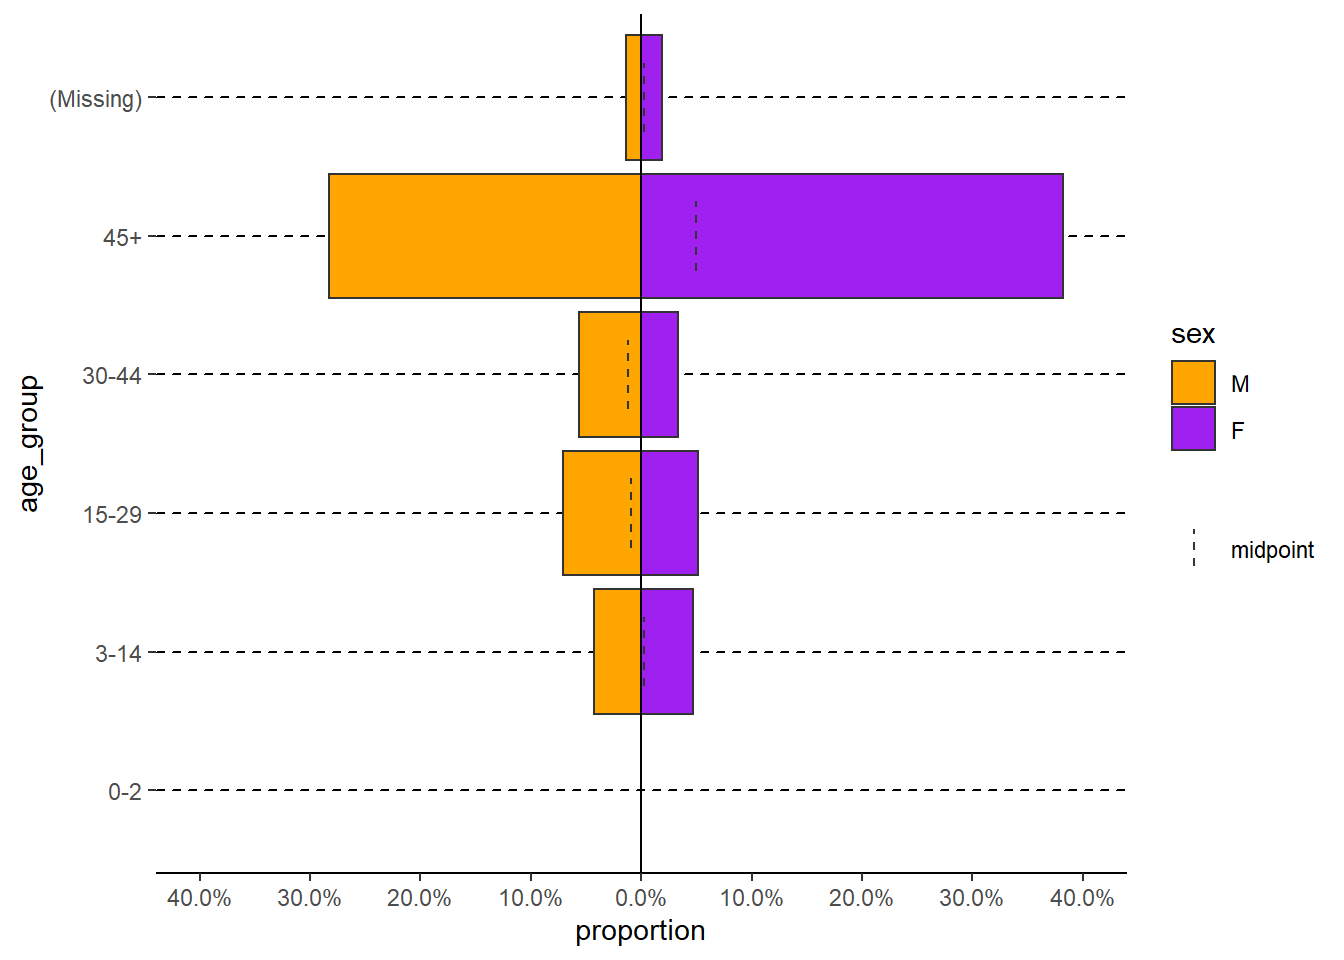
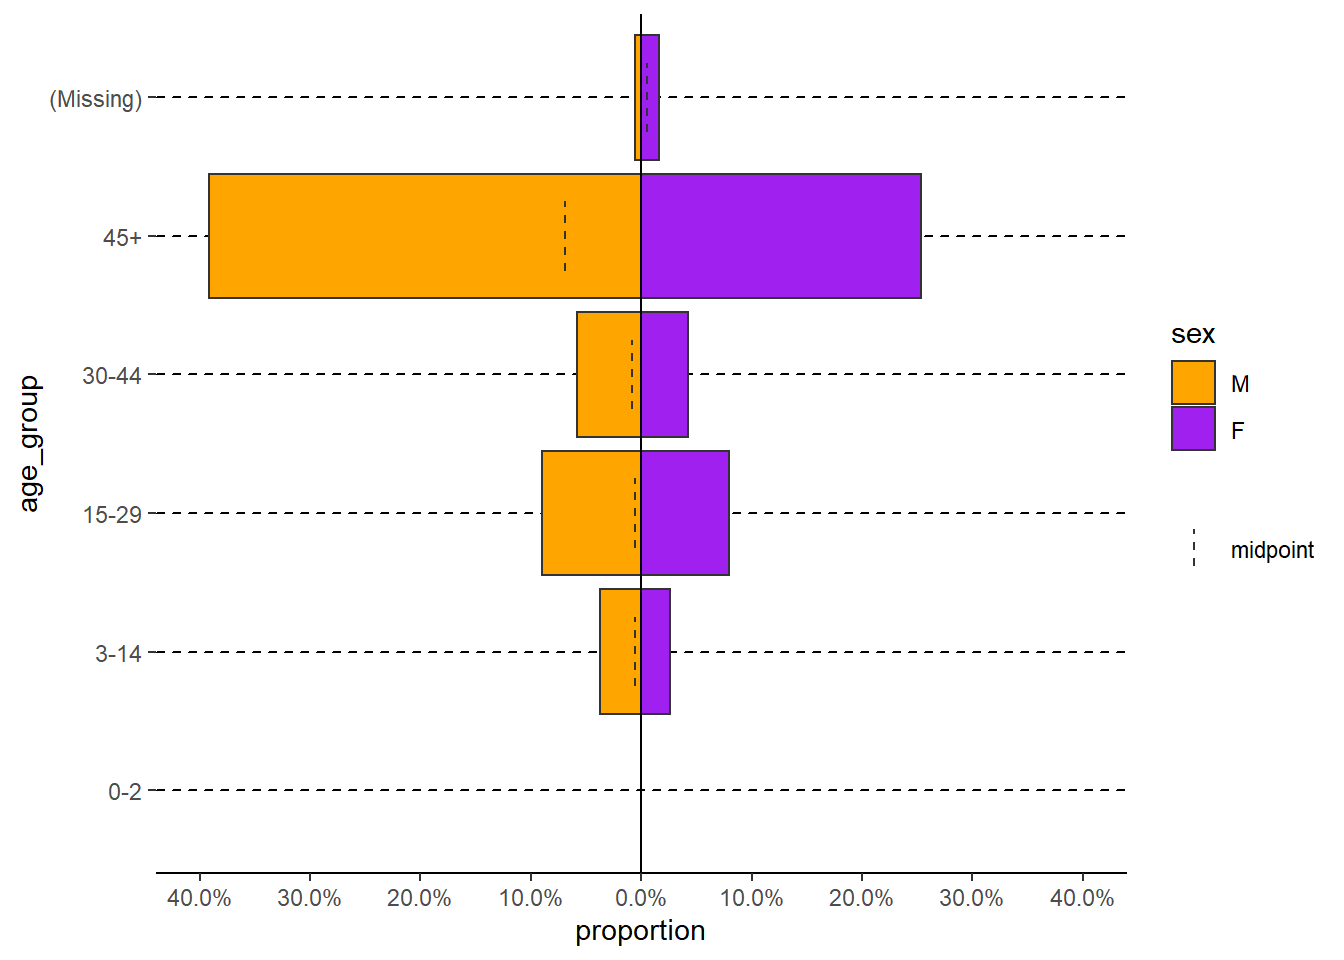
Finished transition of descriptive example to pyramid example (Functions page)

diff --git a/content/training/R_Basics/Functions.html b/content/training/R_Basics/Functions.html
@@ -15,7 +15,7 @@ weight: 7
 <p><strong>Functions typically operate upon some object placed within the function’s parentheses</strong>. For example, when the function summary() is used on a variable of class numeric, the output is a summary of the variable’s numeric and missing values.</p>
 <pre class="r"><code>summary(linelist_raw$age_years)</code></pre>
 <pre><code>##    Min. 1st Qu.  Median    Mean 3rd Qu.    Max.    NA&#39;s 
-##    3.00   31.00   62.50   63.58   97.00  120.00       8</code></pre>
+##    3.00   33.00   61.00   61.98   93.50  120.00       5</code></pre>
 </div>
 <div id="functions-with-multiple-arguments" class="section level3">
 <h3>Functions with Multiple Arguments</h3>
@@ -25,9 +25,6 @@ weight: 7
 </blockquote>
 <pre class="r"><code># Creates an age pyramid by specifying the dataframe, age group variable, and a variable to split the pyramid
 plot_age_pyramid(data = linelist_cleaned, age_group = &quot;age_group&quot;, split_by = &quot;sex&quot;)</code></pre>
-<pre><code>## Warning in count_age_categories(data, age_group, split_by, stack_by,
-## proportional, : removing 88 observations with missing values between the
-## sex and sex columns.</code></pre>
 <p><img src="/training/R_Basics/Functions_files/figure-html/unnamed-chunk-4-1.png" width="672" /></p>
 <blockquote>
 <p>Often, the first half of argument assignment (e.g. <code>data =</code>) does not need to be specified if the arguments are written in a specific order (specified in the function’s documentation). The below code produces the exact same pyramid as above, because the function expects the argument order: data frame, age_group variable, split_by variable.</p>
@@ -42,9 +39,6 @@ plot_age_pyramid(linelist_cleaned, &quot;age_group&quot;, &quot;sex&quot;)</code
 </ul>
 <p><em>Note: For arguments specified with an equals symbol (e.g. coltotals = …), their order among the arguments is not important (must still be within the parentheses and separated by commas).</em></p>
 <pre class="r"><code>plot_age_pyramid(linelist_cleaned, &quot;age_group&quot;, &quot;sex&quot;, proportional = TRUE, pal = c(&quot;orange&quot;, &quot;purple&quot;))</code></pre>
-<pre><code>## Warning in count_age_categories(data, age_group, split_by, stack_by,
-## proportional, : removing 88 observations with missing values between the
-## sex and sex columns.</code></pre>
 <p><img src="/training/R_Basics/Functions_files/figure-html/unnamed-chunk-6-1.png" width="672" /></p>
 </div>
 <div id="using-additional-functions" class="section level3">
